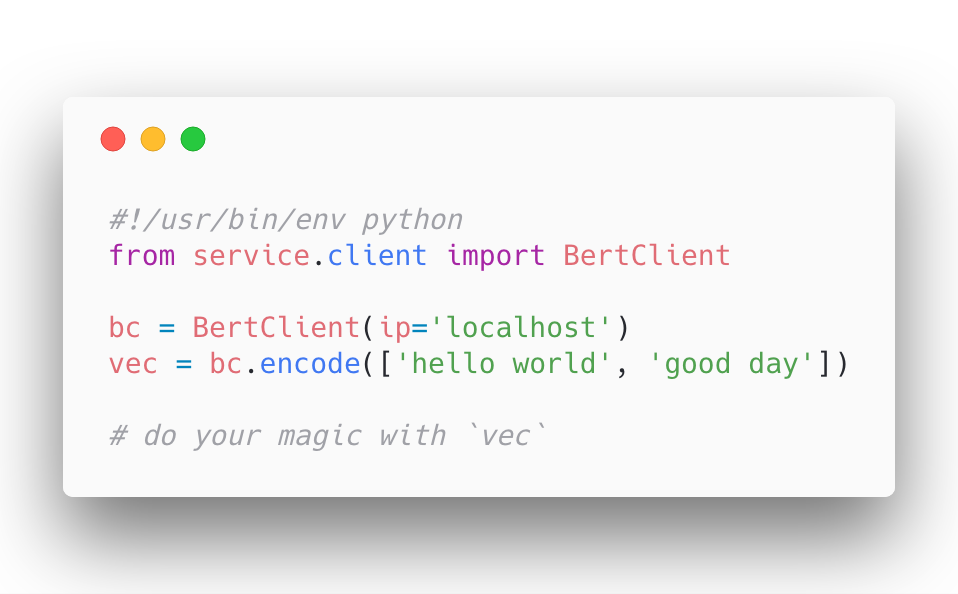
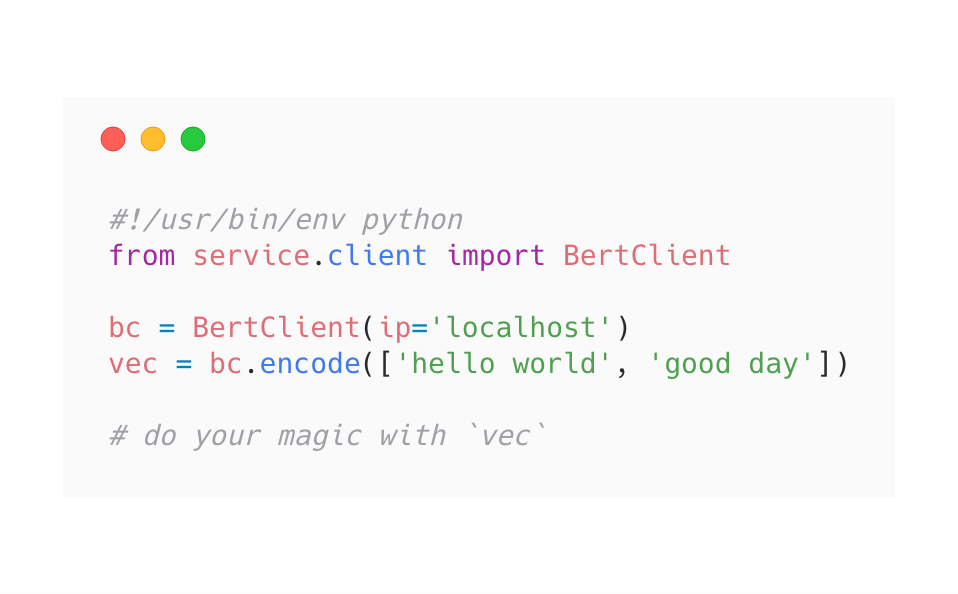
resize showcase img

Changed region(s): [[0.0, 0.2121, 0.999, 0.9697]]

diff --git a/README.md b/README.md
@@ -4,7 +4,7 @@
 
 Using BERT model as a sentence encoding service, i.e. mapping a variable-length sentence to a fixed-length vector.
 
-<img src=".github/demo.png" width="300">
+<img src=".github/demo.png" width="500">
 
 Author: Han Xiao [https://hanxiao.github.io](https://hanxiao.github.io)
 
